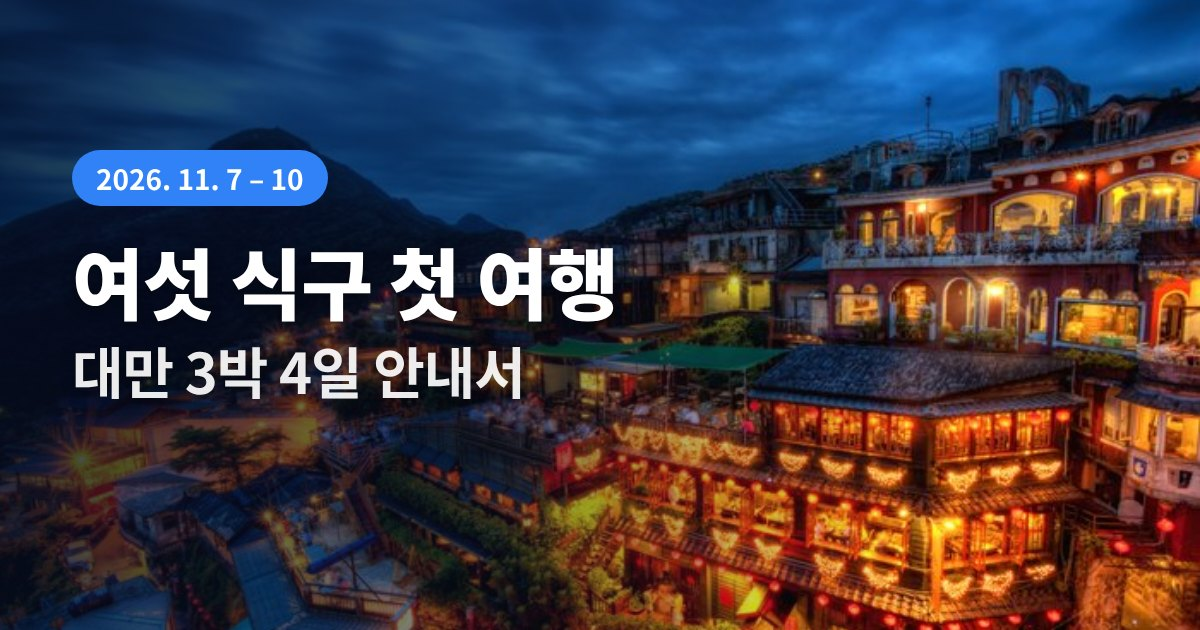
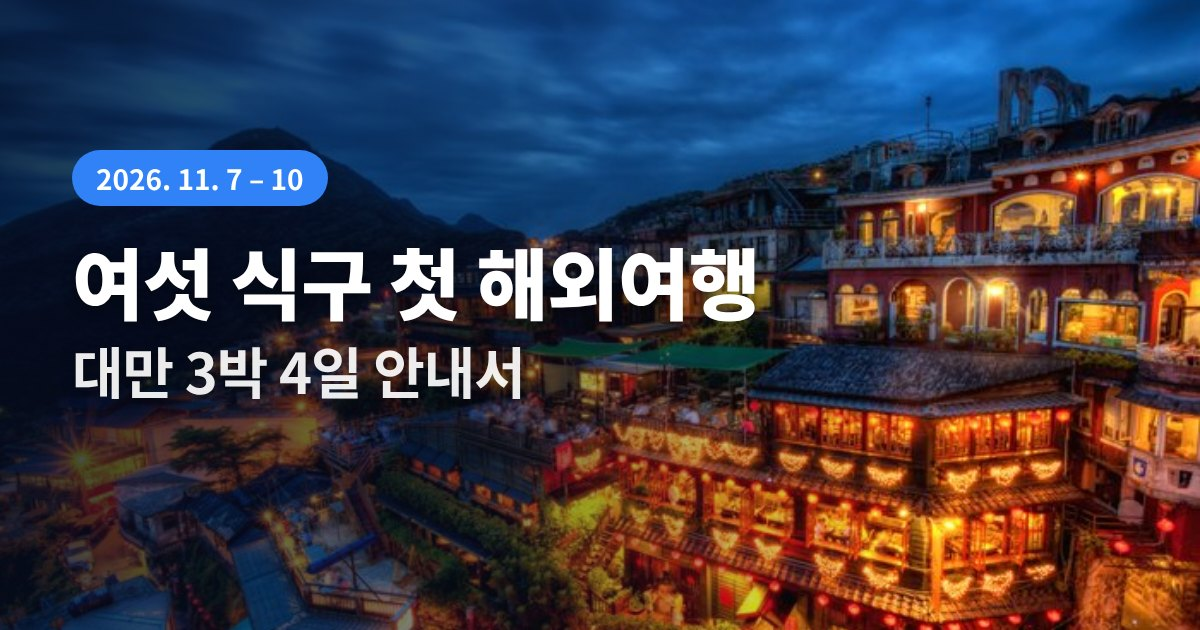
아이콘 추가

Changed region(s): [[0.4008, 0.3921, 0.6475, 0.5127]]

diff --git a/index.html b/index.html
@@ -7,23 +7,23 @@
 <meta name="apple-mobile-web-app-capable" content="yes">
 <meta name="mobile-web-app-capable" content="yes">
 <meta name="apple-mobile-web-app-title" content="대만 여행">
-<meta name="description" content="2026년 11월 7일~10일 여섯 식구 첫 여행 · 대만 3박 4일 안내서">
+<meta name="description" content="2026년 11월 7일~10일 여섯 식구 첫 해외여행 · 대만 3박 4일 안내서">
 <link rel="manifest" href="manifest.webmanifest">
 <link rel="icon" href="icon-192.png">
 <link rel="apple-touch-icon" href="apple-touch-icon.png">
 <meta property="og:type" content="website">
-<meta property="og:site_name" content="여섯 식구 첫 여행">
-<meta property="og:title" content="여섯 식구 첫 여행 · 대만 3박 4일 안내서">
+<meta property="og:site_name" content="여섯 식구 첫 해외여행">
+<meta property="og:title" content="여섯 식구 첫 해외여행 · 대만 3박 4일 안내서">
 <meta property="og:description" content="2026년 11월 7일(토) ~ 10일(화)">
 <meta property="og:url" content="https://heon1031.github.io/taiwan-trip/">
-<meta property="og:image" content="https://heon1031.github.io/taiwan-trip/og.jpg?v=3">
+<meta property="og:image" content="https://heon1031.github.io/taiwan-trip/og.jpg?v=4">
 <meta property="og:image:width" content="1200">
 <meta property="og:image:height" content="630">
 <meta name="twitter:card" content="summary_large_image">
 
 <link rel="preconnect" href="https://fonts.googleapis.com">
 <link rel="stylesheet" href="https://fonts.googleapis.com/css2?family=Noto+Sans+KR:wght@400;500;600;700;800&family=Noto+Sans+TC:wght@500;700&display=swap">
-<title>여섯 식구 첫 여행</title>
+<title>여섯 식구 첫 해외여행</title>
 <link rel="preconnect" href="https://fonts.googleapis.com">
 <link rel="stylesheet" href="https://fonts.googleapis.com/css2?family=Noto+Sans+KR:wght@400;500;600;700;800&family=Noto+Sans+TC:wght@500;700&display=swap">
 <style>
@@ -567,6 +567,7 @@ html.big .card-ov .in{zoom:1.1}
 html.big .bottombar .in{zoom:1.06}
 .sheet{scrollbar-width:none;-ms-overflow-style:none}
 .sheet::-webkit-scrollbar{display:none;width:0;height:0}
+.hello .h1m{display:flex;align-items:flex-end;gap:6px;flex-wrap:nowrap}.hello .h1m span{min-width:0}.hello .mascot{height:62px;width:auto;flex:none;margin:-30px 0 -4px;filter:drop-shadow(0 2px 6px rgba(0,0,0,.35))}
 .hello .sub1{font-size:19px;font-weight:700;color:#fff;margin-top:-2px}
 .daybtn.hrow .thumb{width:72px;height:72px}
 .daybtn.hrow{grid-template-columns:72px 1fr auto}
@@ -1121,8 +1122,8 @@ function a2hBox(){const ua=navigator.userAgent,os=/iPhone|iPad|iPod/.test(ua)?(/
   const PG='<div class="pg"><div class="hero"></div><i></i><i></i><i></i></div>';
   w.innerHTML=`<div class="a2h-tabs"><button type="button" data-os="a">갤럭시 크롬</button><button type="button" data-os="s">갤럭시 삼성인터넷</button><button type="button" data-os="i">아이폰 사파리</button><button type="button" data-os="ic">아이폰 크롬</button></div>
   <div class="a2h-ph" aria-hidden="true">
-   <div class="sc kt"><div class="hd">‹ 우리 가족 (6)</div><div class="msg"><span class="av"></span><div><div class="nm">헌주</div><div class="bub">대만 여행 안내서예요!</div><div class="lk"><i></i><b>여섯 식구 첫 여행</b><span>heon1031.github.io</span></div></div></div><div class="me">고마워!</div></div>
-   <div class="sc br kbr"><div class="bt kbt"><span class="x">✕</span><span class="url">여섯 식구 첫 여행</span></div><div class="bt kbti"><span class="kb">‹</span><span class="url">heon1031.github..</span><span class="ky"></span><span class="kb">˅</span></div>${PG}<div class="bb kbb"><span>←</span><span>→</span><span>↻</span>${SHR}</div><div class="bb kbba"><span>‹</span><span>›</span><span>↻</span><span style="font-weight:800">⋮</span></div></div>
+   <div class="sc kt"><div class="hd">‹ 우리 가족 (6)</div><div class="msg"><span class="av"></span><div><div class="nm">헌주</div><div class="bub">대만 여행 안내서예요!</div><div class="lk"><i></i><b>여섯 식구 첫 해외여행</b><span>heon1031.github.io</span></div></div></div><div class="me">고마워!</div></div>
+   <div class="sc br kbr"><div class="bt kbt"><span class="x">✕</span><span class="url">여섯 식구 첫 해외여행</span></div><div class="bt kbti"><span class="kb">‹</span><span class="url">heon1031.github..</span><span class="ky"></span><span class="kb">˅</span></div>${PG}<div class="bb kbb"><span>←</span><span>→</span><span>↻</span>${SHR}</div><div class="bb kbba"><span>‹</span><span>›</span><span>↻</span><span style="font-weight:800">⋮</span></div></div>
    <div class="sc br n b-a"><div class="cbar"><span class="ic">⌂</span><span class="omni"><em>⊜</em>heon1031.github.io</span><span class="tabn">1</span><span class="mo">⋮</span></div>${PG}<div class="bn"><i class="lg lg-c"></i>Chrome</div></div>
    <div class="sc br n b-s"><div class="sbar"><span class="omni"><em>🔒</em>heon1031.github.io</span><span class="ic">↻</span></div>${PG}<div class="stb"><span>‹</span><span>›</span><span>⌂</span><span>☆</span><span class="tabn">1</span><span class="hm">≡</span></div><div class="bn"><i class="lg lg-s"></i>삼성 인터넷</div></div>
    <div class="sc br n b-i">${PG}<div class="ibar"><span class="rb">‹</span><span class="pill">heon1031.github.io</span><span class="rb">⋯</span></div><div class="bn"><i class="lg lg-i"></i>Safari</div></div>
@@ -1132,7 +1133,7 @@ function a2hBox(){const ua=navigator.userAgent,os=/iPhone|iPad|iPod/.test(ua)?(/
    <div class="lay menu kmenu kmenu-a"><b>새로고침</b><b>링크 복사</b><b>공유하기</b><b class="hl">다른 브라우저로 열기</b></div>
    <div class="lay ksh kmenu-i"><div class="apps"><span class="sf"><i></i>Safari</span><span class="cr"><i></i>Chrome</span><span><i></i>Whale</span><span><i></i>메시지</span><span><i></i>메일</span></div><b>복사</b><b>읽기 목록에 추가</b><b>더 보기</b></div>
    <div class="lay menu cmenu"><div class="ir"><span>→</span><span>☆</span><span>⤓</span><span>ⓘ</span><span>↻</span></div><b>새 탭</b><b>새 시크릿 탭</b><b>방문 기록</b><b>다운로드</b><b>북마크</b><b class="hl">홈 화면에 추가</b><b>설정</b></div>
-   <div class="lay shs"><div class="hd"><img src="icon-192.png?v=2" alt=""><div><b>여섯 식구 첫 여행</b><span>heon1031.github.io</span></div><em>✕</em></div><div class="row"><span><i></i>AirDrop</span><span><i></i>메시지</span><span><i></i>메일</span><span><i></i>메모</span></div><div class="grp"><b>복사</b><b>읽기 목록에 추가</b><b>북마크 추가</b><b class="hl">홈 화면에 추가 <em>⊞</em></b></div></div>
+   <div class="lay shs"><div class="hd"><img src="icon-192.png?v=2" alt=""><div><b>여섯 식구 첫 해외여행</b><span>heon1031.github.io</span></div><em>✕</em></div><div class="row"><span><i></i>AirDrop</span><span><i></i>메시지</span><span><i></i>메일</span><span><i></i>메모</span></div><div class="grp"><b>복사</b><b>읽기 목록에 추가</b><b>북마크 추가</b><b class="hl">홈 화면에 추가 <em>⊞</em></b></div></div>
    <div class="lay dlg"><div><b class="tt">홈 화면에 추가</b><div class="rw"><img src="icon-192.png?v=2" alt=""><span class="in">대만 여행</span></div><div class="bs"><span>취소</span><span>추가</span></div></div></div>
    <div class="lay iadd" style="inset:0"><div class="nav"><span class="rb">✕</span><b>홈 화면에 추가</b><span class="rb ok">✓</span></div><div class="card"><img src="icon-192.png?v=2" alt=""><div><b>대만 여행</b><br><span style="color:#8B95A1">heon1031.github.io</span></div></div><div class="card tg"><span>웹 앱으로 열기</span><i></i></div></div>
    <div class="sc home"><span><i></i>전화</span><span><i></i>카톡</span><span><i></i>카메라</span><span><i></i>사진</span><span><i></i>지도</span><span><i></i>날씨</span><span class="me"><img src="icon-192.png?v=2" alt="">대만 여행</span></div>
@@ -1148,7 +1149,7 @@ function a2hBox(){const ua=navigator.userAgent,os=/iPhone|iPad|iPod/.test(ua)?(/
   return w}
 function openA2H(){openSheet({title:'바탕화면에 앱으로 추가하기',lbl:'1분이면 돼요',text:[]});const i=sheet.querySelector('.in');if(i)i.appendChild(a2hBox())}
 function homePanel(){const p=el('section','panel');
-  p.innerHTML=`<div class="hello"><h1>여섯 식구 첫 여행</h1><p class="sub1">대만 3박 4일 안내서</p><p>2026년 11월 7일(토) ~ 10일(화)</p></div>${todayIdx>=0?`<button type="button" class="nowcard" id="nowCard"></button>`:''}<div class="ask" data-zh="日程">어느 날 일정을 볼까요?</div>`;
+  p.innerHTML=`<div class="hello"><h1 class="h1m"><span>여섯 식구 첫 해외여행</span><img class="mascot" src="img/hello.png" alt="" onerror="this.remove()"></h1><p class="sub1">대만 3박 4일 안내서</p><p>2026년 11월 7일(토) ~ 10일(화)</p></div>${todayIdx>=0?`<button type="button" class="nowcard" id="nowCard"></button>`:''}<div class="ask" data-zh="日程">어느 날 일정을 볼까요?</div>`;
   const nc=p.querySelector('#nowCard');if(nc)nc.addEventListener('click',()=>show(DAYS[todayIdx].id));
   const g=el('div','daybtns');
   [['토','타이베이 300년, 하루의 시간 여행','용산사 · 중정기념당 · 101 야경'],['일','바다가 빚고, 탄광이 키운 북쪽 해안','예류 · 스펀 · 지우펀'],['월','타이야족의 온천 마을과 대만의 명동','우라이 꼬마기차와 폭포 · 시먼딩'],['화','다시 만날 날을 약속하며','공항에서 6명이 함께 마지막 아점']].forEach(([w,t,s],i)=>{

diff --git a/sw.js b/sw.js
@@ -1,6 +1,6 @@
-// 여섯 식구 첫 여행 · 오프라인 저장
-const CACHE='tw-v6';
-const PRE=["./", "index.html", "manifest.webmanifest", "icon-192.png", "apple-touch-icon.png", "img/101.jpg", "img/chiikawa.jpg", "img/cks.jpg", "img/day1.jpg", "img/day2.jpg", "img/day3.jpg", "img/day4.jpg", "img/donki.jpg", "img/f_amei.jpg", "img/f_beef.jpg", "img/f_bento.jpg", "img/f_boar.jpg", "img/f_boba.jpg", "img/f_charsiu.jpg", "img/f_chicken.jpg", "img/f_congee.jpg", "img/f_court.jpg", "img/f_duck.jpg", "img/f_fruit.jpg", "img/f_gopchang.jpg", "img/f_hotpot.jpg", "img/f_kiki.jpg", "img/f_lurou.jpg", "img/f_mango.jpg", "img/f_peanut.jpg", "img/f_pepper.jpg", "img/f_ribs.jpg", "img/f_sausage.jpg", "img/f_shandi.jpg", "img/f_wing.jpg", "img/flight.jpg", "img/hero.jpg", "img/hotel.jpg", "img/houtong.jpg", "img/jinguashi.jpg", "img/jiufen.jpg", "img/longshan.jpg", "img/ovbase.jpg", "img/ovdetail.png", "img/overview.jpg", "img/r_jiufen.jpg", "img/r_shifen.jpg", "img/r_wulai.jpg", "img/r_yehliu.jpg", "img/raohe.jpg", "img/redhouse.jpg", "img/shifen.jpg", "img/trolley.jpg", "img/wannian.jpg", "img/wulai.jpg", "img/wulaifall.jpg", "img/wulaist.jpg", "img/wulaivil.jpg", "img/ximen.jpg", "img/ximenug.jpg", "img/yehliu.jpg", "img/yongkang.jpg"];
+// 여섯 식구 첫 해외여행 · 오프라인 저장
+const CACHE='tw-v7';
+const PRE=["./", "index.html", "manifest.webmanifest", "icon-192.png", "apple-touch-icon.png", "img/101.jpg", "img/chiikawa.jpg", "img/cks.jpg", "img/day1.jpg", "img/day2.jpg", "img/day3.jpg", "img/day4.jpg", "img/donki.jpg", "img/f_amei.jpg", "img/f_beef.jpg", "img/f_bento.jpg", "img/f_boar.jpg", "img/f_boba.jpg", "img/f_charsiu.jpg", "img/f_chicken.jpg", "img/f_congee.jpg", "img/f_court.jpg", "img/f_duck.jpg", "img/f_fruit.jpg", "img/f_gopchang.jpg", "img/f_hotpot.jpg", "img/f_kiki.jpg", "img/f_lurou.jpg", "img/f_mango.jpg", "img/f_peanut.jpg", "img/f_pepper.jpg", "img/f_ribs.jpg", "img/f_sausage.jpg", "img/f_shandi.jpg", "img/f_wing.jpg", "img/flight.jpg", "img/hero.jpg", "img/hello.png", "img/hotel.jpg", "img/houtong.jpg", "img/jinguashi.jpg", "img/jiufen.jpg", "img/longshan.jpg", "img/ovbase.jpg", "img/ovdetail.png", "img/overview.jpg", "img/r_jiufen.jpg", "img/r_shifen.jpg", "img/r_wulai.jpg", "img/r_yehliu.jpg", "img/raohe.jpg", "img/redhouse.jpg", "img/shifen.jpg", "img/trolley.jpg", "img/wannian.jpg", "img/wulai.jpg", "img/wulaifall.jpg", "img/wulaist.jpg", "img/wulaivil.jpg", "img/ximen.jpg", "img/ximenug.jpg", "img/yehliu.jpg", "img/yongkang.jpg"];
 self.addEventListener('install',e=>{e.waitUntil(caches.open(CACHE).then(c=>Promise.all(PRE.map(u=>c.add(u).catch(()=>{})))).then(()=>self.skipWaiting()))});
 self.addEventListener('activate',e=>{e.waitUntil(caches.keys().then(ks=>Promise.all(ks.filter(k=>k!==CACHE).map(k=>caches.delete(k)))).then(()=>self.clients.claim()))});
 self.addEventListener('fetch',e=>{const r=e.request;if(r.method!=='GET')return;const u=new URL(r.url);
